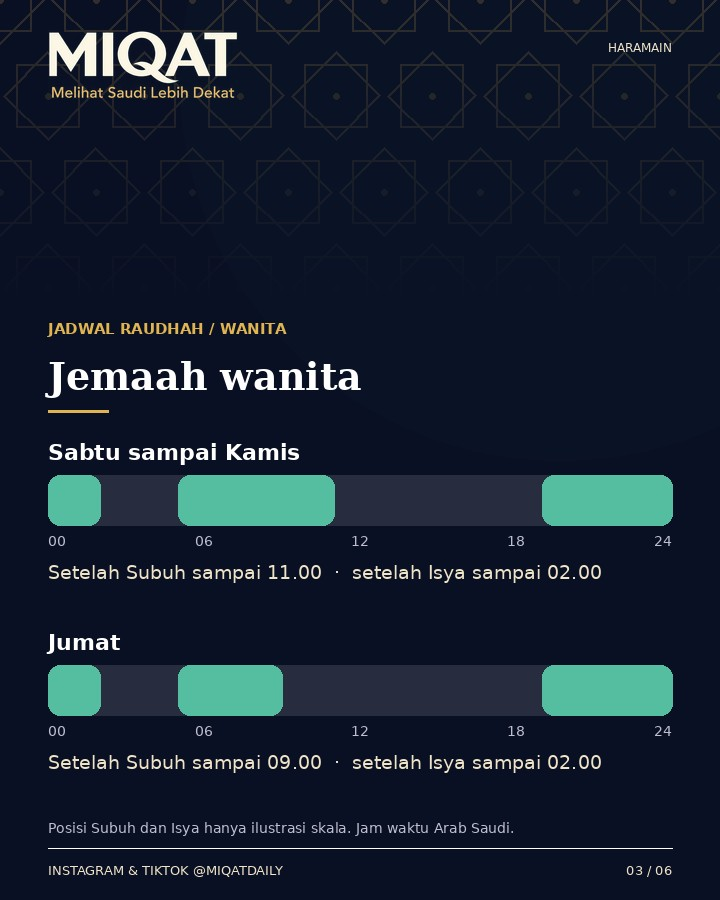
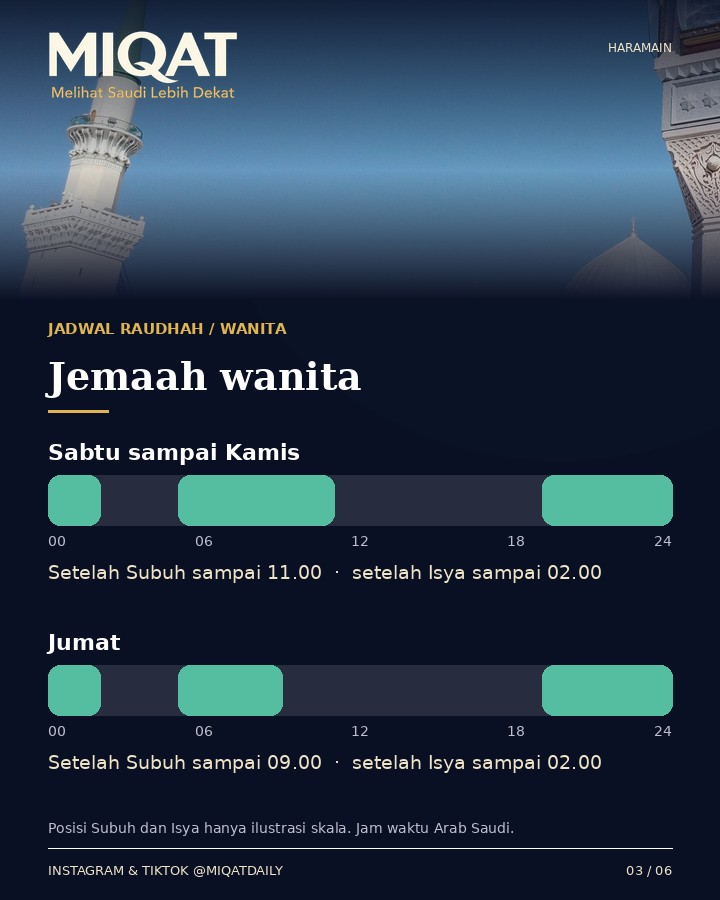
Raudhah: carousel pakai foto Masjid Nabawi (Pexels, Unsplash) dan kredit foto
Claude-Session: https://claude.ai/code/session_011iiFqvPKBkKphUAfbmKTqh

Changed region(s): [[0.0, 0.0, 1.0, 0.3422]]

diff --git a/content/posts/jadwal-raudhah-masjid-nabawi/article.md b/content/posts/jadwal-raudhah-masjid-nabawi/article.md
@@ -23,4 +23,4 @@ Raudhah adalah salah satu tujuan utama jemaah di Madinah, dan pembagian waktu me
 
 **Catatan redaksi**
 
-Redaksi membaca rilis SPA dari ringkasan halamannya, bukan salinan lengkap, sehingga ketentuan rinci seperti kuota atau batas usia belum dapat dipastikan. Jadwal dapat berubah, termasuk selama musim haji dan Ramadan; periksa Nusuk dan pengumuman otoritas Masjid Nabawi sebelum berangkat. HIMPUH dan The Islamic Information bukan sumber resmi.
+Redaksi membaca rilis SPA dari ringkasan halamannya, bukan salinan lengkap, sehingga ketentuan rinci seperti kuota atau batas usia belum dapat dipastikan. Jadwal dapat berubah, termasuk selama musim haji dan Ramadan; periksa Nusuk dan pengumuman otoritas Masjid Nabawi sebelum berangkat. HIMPUH dan The Islamic Information bukan sumber resmi. Foto carousel: Rushdi Fatani (Pexels) dan Ryan Pradipta Putra (Unsplash), dipakai sebagai ilustrasi suasana Masjid Nabawi.
